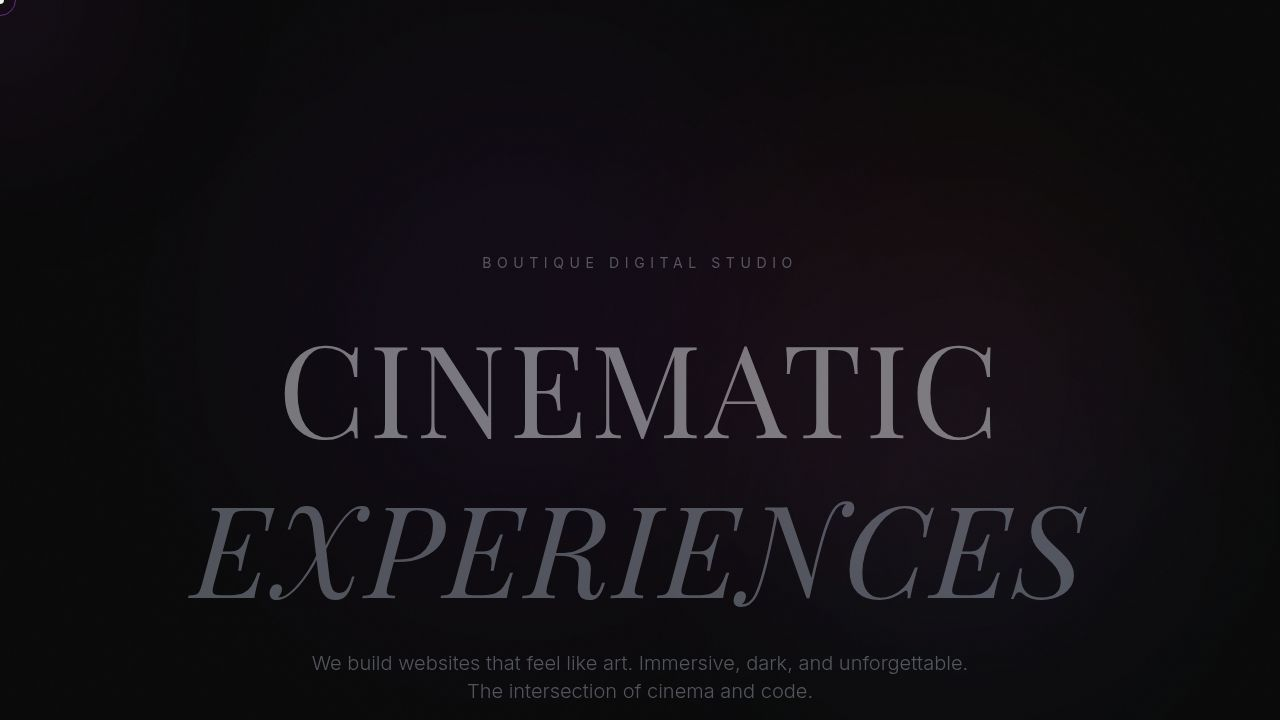
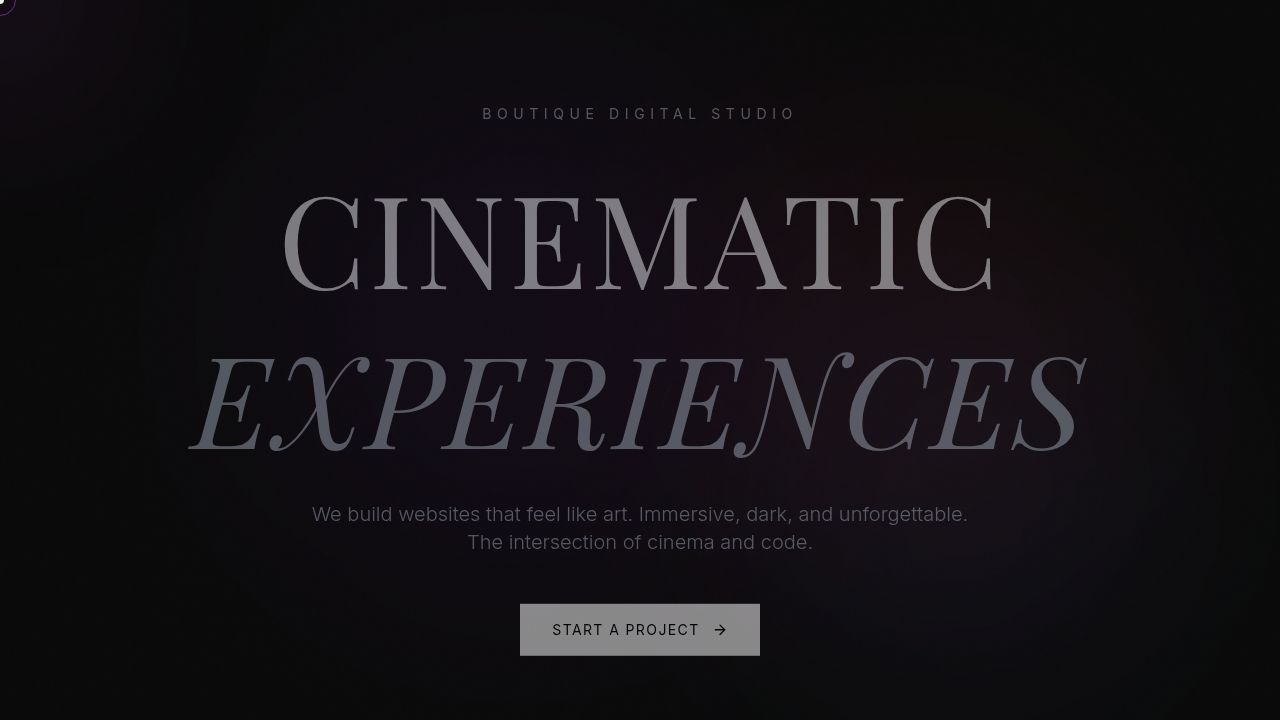
Add a cinematic scroll-driven animation to the website
Integrates a new `ScrollAnimation` component using Framer Motion for a pinned, frame-by-frame visual sequence triggered by user scrolling.

Replit-Commit-Author: Agent
Replit-Commit-Session-Id: 52dcfdf0-1169-4e61-9425-422de793fa1a
Replit-Commit-Checkpoint-Type: full_checkpoint
Replit-Commit-Event-Id: 275e04e3-7daa-4823-8af8-53b5593780b8
Replit-Commit-Screenshot-Url: https://storage.googleapis.com/screenshot-production-us-central1/abc517c8-bc20-40c5-a886-8df3c3d10680/52dcfdf0-1169-4e61-9425-422de793fa1a/HQYpDjS
Replit-Helium-Checkpoint-Created: true

diff --git a/artifacts/galan-web-studios/src/components/ScrollAnimation.tsx b/artifacts/galan-web-studios/src/components/ScrollAnimation.tsx
@@ -1,0 +1,135 @@
+import React, { useRef, useEffect, useState } from "react";
+import { motion, useScroll, useTransform, useMotionValueEvent } from "framer-motion";
+
+const FRAME_COUNT = 10;
+
+export function ScrollAnimation() {
+  const containerRef = useRef<HTMLDivElement>(null);
+  const canvasRef = useRef<HTMLCanvasElement>(null);
+  const [images, setImages] = useState<HTMLImageElement[]>([]);
+  const [isReady, setIsReady] = useState(false);
+
+  const { scrollYProgress } = useScroll({
+    target: containerRef,
+    offset: ["start start", "end end"],
+  });
+
+  const frameIndex = useTransform(scrollYProgress, [0, 1], [0, FRAME_COUNT - 1]);
+  const scale = useTransform(scrollYProgress, [0, 1], [1.0, 1.08]);
+  const sectionOpacity = useTransform(scrollYProgress, [0, 0.1, 0.9, 1], [0, 1, 1, 0]);
+  const textOpacity = useTransform(scrollYProgress, [0, 0.4, 0.5], [1, 1, 0]);
+
+  useEffect(() => {
+    // Preload images
+    const loadImages = async () => {
+      const isMobile = window.innerWidth < 768;
+      const promises = [];
+      
+      for (let i = 1; i <= FRAME_COUNT; i++) {
+        // On mobile, load every other frame to save bandwidth and memory, reusing the previous frame
+        const fileIndex = isMobile && i % 2 === 0 ? i - 1 : i;
+
+        const promise = new Promise<HTMLImageElement>((resolve, reject) => {
+          const img = new Image();
+          img.src = `/frames/frame-${String(fileIndex).padStart(2, '0')}.png`;
+          img.onload = () => resolve(img);
+          img.onerror = () => reject();
+        });
+        promises.push(promise);
+      }
+
+      try {
+        const results = await Promise.all(promises);
+        setImages(results);
+        setIsReady(true);
+      } catch (e) {
+        console.error("Failed to load frames", e);
+        // still set ready so it doesn't block forever
+        setIsReady(true);
+      }
+    };
+    loadImages();
+  }, []);
+
+  const drawFrame = (index: number) => {
+    if (!canvasRef.current || images.length === 0) return;
+    const img = images[index];
+    if (!img) return;
+
+    const canvas = canvasRef.current;
+    const ctx = canvas.getContext("2d");
+    if (!ctx) return;
+
+    canvas.width = window.innerWidth;
+    canvas.height = window.innerHeight;
+
+    const cw = canvas.width;
+    const ch = canvas.height;
+    const iw = img.width || 900;
+    const ih = img.height || 500;
+
+    const ratio = Math.max(cw / iw, ch / ih);
+    const w = iw * ratio;
+    const h = ih * ratio;
+    const x = (cw - w) / 2;
+    const y = (ch - h) / 2;
+
+    ctx.clearRect(0, 0, cw, ch);
+    ctx.drawImage(img, x, y, w, h);
+  };
+
+  useMotionValueEvent(frameIndex, "change", (latest) => {
+    const index = Math.min(FRAME_COUNT - 1, Math.max(0, Math.round(latest)));
+    drawFrame(index);
+  });
+
+  // initial draw
+  useEffect(() => {
+    if (isReady && images.length > 0) {
+      const index = Math.min(FRAME_COUNT - 1, Math.max(0, Math.round(frameIndex.get())));
+      drawFrame(index);
+    }
+  }, [isReady, images]);
+
+  // handle window resize
+  useEffect(() => {
+    const handleResize = () => {
+      if (isReady && images.length > 0) {
+        const index = Math.min(FRAME_COUNT - 1, Math.max(0, Math.round(frameIndex.get())));
+        drawFrame(index);
+      }
+    };
+    window.addEventListener("resize", handleResize);
+    return () => window.removeEventListener("resize", handleResize);
+  }, [isReady, images]);
+
+  return (
+    <div ref={containerRef} className="h-[300vh] relative w-full bg-black">
+      <motion.div 
+        className="sticky top-0 h-screen w-full overflow-hidden bg-black flex items-center justify-center"
+        style={{ opacity: sectionOpacity }}
+      >
+        {!isReady && (
+          <div className="absolute inset-0 z-50 bg-black transition-opacity duration-1000" />
+        )}
+        
+        <motion.div className="absolute inset-0 w-full h-full origin-center" style={{ scale }}>
+          <canvas ref={canvasRef} className="w-full h-full" />
+        </motion.div>
+
+        {/* Overlays */}
+        <div className="absolute inset-x-0 top-0 h-32 bg-gradient-to-b from-black to-transparent pointer-events-none" />
+        <div className="absolute inset-x-0 bottom-0 h-32 bg-gradient-to-t from-black to-transparent pointer-events-none" />
+
+        <motion.div 
+          className="absolute bottom-12 left-0 right-0 text-center pointer-events-none"
+          style={{ opacity: textOpacity }}
+        >
+          <span className="text-[10px] tracking-[0.4em] uppercase text-gray-500 font-light">
+            — Studio —
+          </span>
+        </motion.div>
+      </motion.div>
+    </div>
+  );
+}

diff --git a/artifacts/galan-web-studios/src/App.tsx b/artifacts/galan-web-studios/src/App.tsx
@@ -3,6 +3,7 @@ import { motion, useScroll, useTransform } from "framer-motion";
 import { LoadingScreen } from "./components/LoadingScreen";
 import { CustomCursor } from "./components/CustomCursor";
 import { AmbientBackground } from "./components/AmbientBackground";
+import { ScrollAnimation } from "./components/ScrollAnimation";
 import { QueryClient, QueryClientProvider } from "@tanstack/react-query";
 import { MessageSquare, ArrowRight, ArrowDown } from "lucide-react";
 import { FaWhatsapp } from "react-icons/fa";
@@ -83,6 +84,8 @@ function AppContent() {
           </motion.div>
         </motion.div>
       </section>
+
+      <ScrollAnimation />
 
       {/* Services Section */}
       <section className="py-32 px-4 md:px-12 max-w-7xl mx-auto relative z-10">